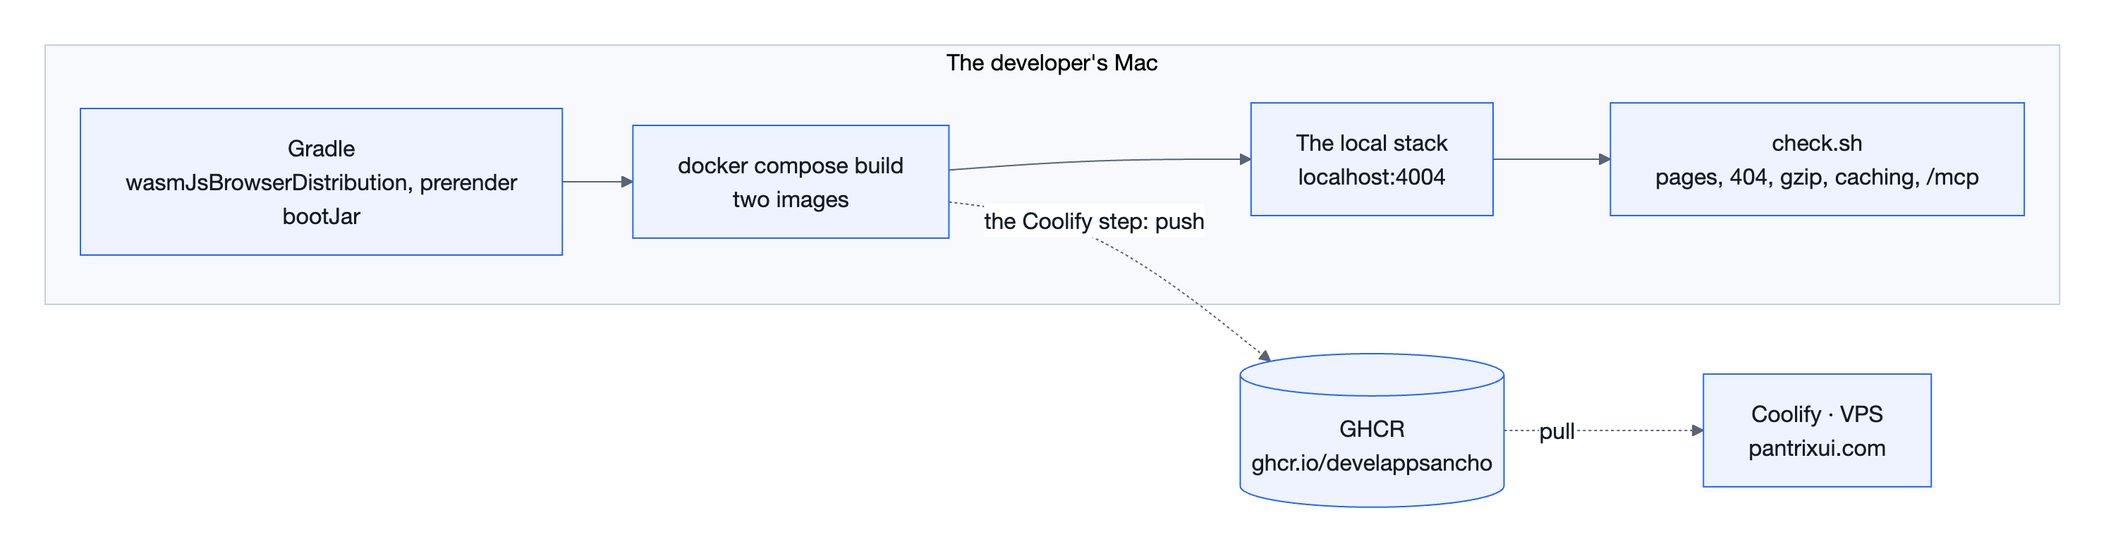
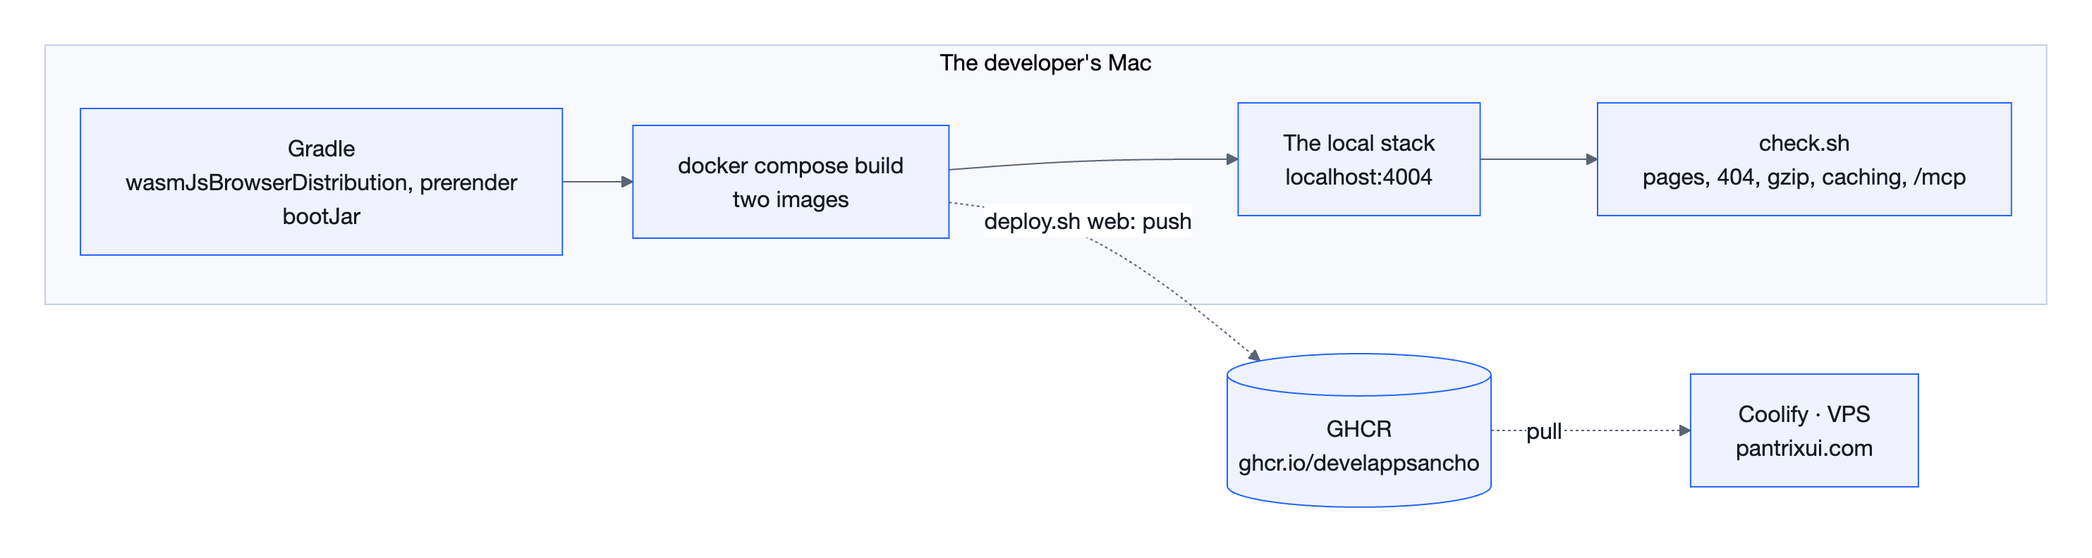
[DOCS][Add the deploy guide's section on deploying in Coolify and releasing the desktop app, Note what the live deploy showed in the architecture guide and Describe the host's deploy in the READMEs]

diff --git a/docs/deploy/DEPLOY_GUIDE.md b/docs/deploy/DEPLOY_GUIDE.md
@@ -24,6 +24,8 @@ Bir sürüm, yayının tarihidir: `YY.A.G` (`26.10.31`); verilmezse bugününki.
 *   **Docker Desktop**, açık. `docker compose` onunla gelir.
 *   **JDK 21** ve Gradle'ın kendisi (`./gradlew`).
 *   **GitHub Packages'ın anahtarı:** Pantrix UI'ın bir sürümü GitHub Packages'tan gelir ve GitHub, açık paketler için bile bir anahtar ister. `~/.gradle/gradle.properties`'te `GitHubPackagesUsername` ve `read:packages` yetkili bir token olarak `GitHubPackagesPassword`. Bir `-SNAPSHOT` sürümü yerel Maven deposundan gelir ve anahtar istemez.
+*   **Canlıya yayın için** (Bölüm 7): GitHub'ın komut satırı aracı `gh`, `write:packages` izniyle; Coolify'ın adresi, API anahtarı ve kaynağın UUID'si `~/.gradle/gradle.properties`'te.
+*   **Masaüstü sürümü için:** Xcode'un komut satırı araçları, anahtar zincirinde Developer ID sertifikası ve Apple'ın onayı için `pantrix-notary` adıyla kaydedilmiş bilgiler (Bölüm 7.1).
 
 ## 3. Lokalde Yayın
 
@@ -104,4 +106,103 @@ Yeni bir alan adı:
 
 ## 7. Coolify'da Yayın
 
-Bu bölüm bir sonraki adımda yazılacak: imajların GHCR'ye gönderilmesi, Coolify'da kaynağın kurulması, deneme adresinde denetim, alan adının taşınması ve eski sitenin kaldırılması.
+Site canlıda Coolify'ın yönettiği VPS'te, `https://pantrixui.com`'da çalışır. İmajlar bu makinede derlenir ve GHCR'ye gönderilir; Coolify depodaki `deploy/compose.yaml`'ı okur, imajları çeker ve yığını kaldırır. VPS'te hiçbir şey derlenmez. Masaüstü uygulaması aynı sürümle, sitenin GitHub'daki sürüm sayfasında yayımlanır.
+
+### 7.1 Bir Kerelik Kurulum
+
+1.  **GHCR'ye gönderme izni.** `gh` hangi hesapla açıksa imajlar o hesabın adına gider: `develappsancho`. İzin bir kez eklenir:
+
+    ```bash
+    gh auth refresh -h github.com -s write:packages
+    ```
+
+2.  **Coolify'ın API anahtarı.** Coolify'da **Keys & Tokens** → **API Tokens**'tan `read` ve `deploy` yetkili bir anahtar yaratılır. Panelin adresi ve anahtar `~/.gradle/gradle.properties`'e yazılır; depoya girmez:
+
+    ```properties
+    CoolifyUrl=https://coolify.ornek-alan-adi.com
+    CoolifyToken=…
+    ```
+
+    Bu anahtar ortam değişkenlerinin değerlerini okuyamaz: API onları boş gösterir. Değerler panelde görülür.
+3.  **İlk gönderim.** Coolify'daki kaynak, imajlar GHCR'de olmadan yayımlayamaz. İlk gönderim Coolify'a dokunmadan yapılır:
+
+    ```bash
+    deploy/deploy.sh web --no-coolify
+    ```
+
+    İki paket, `pantrix-ui-site-web` ve `pantrix-ui-site-server`, gizli olarak açılır. İmajların dizinindeki `org.opencontainers.image.source` bilgisiyle depoya kendiliğinden bağlanırlar. Her biri için GitHub'da paketin sayfası → **Package settings** → **Danger Zone** → **Change visibility** → **Public**. Coolify onları anahtarsız çeker.
+4.  **Coolify'da kaynak.** **Projects**'te projenin ortamı → **+ New** → **Public Repository**:
+
+    | Alan | Değer |
+    | :--- | :--- |
+    | Repository URL | `https://github.com/develappsancho/pantrix-ui-site` |
+    | Branch | `main` |
+    | Build Pack | Docker Compose |
+    | Base Directory | `/` |
+    | Docker Compose Location | `/deploy/compose.yaml` |
+    | `web`'in alan adları | `https://pantrixui.com,https://www.pantrixui.com` |
+    | `server`'ın alan adı | Boş: yalnızca nginx'in arkasındadır |
+    | Ortam değişkeni | `SITE_URL=https://pantrixui.com` |
+
+    **Save** ile kaydedilir; ilk yayını betik başlatır.
+5.  **Kaynağın UUID'si.** Panelde kaynağın adresinin son parçasıdır: `…/application/<uuid>`. Kaynağın adındaki kimlik UUID değildir: ad `pantrix-ui-site:main-cntrex…` iken UUID `sfyuo3…`'tür. UUID de `~/.gradle/gradle.properties`'e yazılır:
+
+    ```properties
+    CoolifySiteUuid=sfyuo3lhlbdznx7whlflkz3f
+    ```
+
+6.  **DNS.** `pantrixui.com` ve `www.pantrixui.com` VPS'in adresine gider. Sertifikaları Traefik, Let's Encrypt'ten ilk yayında alır.
+7.  **Apple'ın onayı.** Developer ID sertifikası anahtar zincirinde olmalıdır. Onay için gereken Apple bilgileri bir kez anahtar zincirine, `pantrix-notary` adıyla kaydedilir ve betik onları o addan okur:
+
+    ```bash
+    xcrun notarytool store-credentials pantrix-notary
+    ```
+
+### 7.2 Her Yayın
+
+Bir yayın, GitHub'daki bir commit'ten yapılır. Ağaçta commit'lenmemiş bir değişiklik varsa ya da yerel `main` GitHub'daki `main` değilse betik başlamaz.
+
+| Ne yayımlanıyor | Adımlar |
+| :--- | :--- |
+| Yalnızca site | Commit ve push, sonra `deploy/deploy.sh web` |
+| Site ve masaüstü uygulaması | `deploy/deploy.sh prepare`, iki değişiklik günlüğüne bakmak, commit ve push, sonra `deploy/deploy.sh release` |
+| Yalnızca masaüstü uygulaması | Değişiklik günlüğünde sürümün bölümü, commit ve push, sonra `deploy/deploy.sh desktop` |
+
+`web` şunları yapar:
+
+1.  Siteyi ve sunucuyu Gradle'la derler.
+2.  İki imajı `linux/amd64` ve `linux/arm64` için yapar, üç etiketle GHCR'ye gönderir: sürüm (`26.10.31`), commit (`08ec2a5`) ve `latest`. VPS kendi mimarisininkini çeker.
+3.  Coolify'a yayını POST ile sorar, her 10 saniyede durumunu okur ve bitmesini bekler (yaklaşık 30 saniye).
+4.  Canlı adreste `check.sh`'i çalıştırır. `www` yalnızca kalıcı alan adında denenir.
+
+`desktop` şunları yapar:
+
+1.  Uygulamayı sürümüyle derler (`-Psite.version=26.10.31`).
+2.  DMG'yi Developer ID ile imzalar, Apple'a onaya gönderir ve onayı içine ekler. Onay birkaç dakika sürer.
+3.  GitHub'da `v<sürüm>` sürümünü açar ve `PantrixUI-macOS.dmg`'yi ekler. Notlar, değişiklik günlüğünün o bölümüdür; her paragrafı tek satıra birleştirilir, çünkü GitHub bir sürümün satırlarını kırıldıkları yerde kırar. Sonlarında DMG'nin SHA-256'sı durur.
+
+Dosyanın adı her sürümde aynıdır, bu yüzden `releases/latest/download/PantrixUI-macOS.dmg` hep son sürümü verir. İndirme sayfası sürümü, günü, boyutu ve SHA-256'yı tarayıcıdan GitHub'ın API'sinden okur; gün, sürümün adındaki gündür.
+
+### 7.3 Bir Sürüme Dönmek
+
+Compose dosyası imajları `${SITE_TAG:-latest}` ile çeker. Coolify'da kaynağın ortam değişkenlerine `SITE_TAG=26.10.31` (ya da bir commit) eklenip yeniden yayımlanınca o sürüm çalışır. Değişken silinince yığın yine `latest`'e döner.
+
+### 7.4 Eski Site
+
+Önceki demo, `pantrix-u-i--demo`, Coolify'da durdurulmuş olarak ve aynı alan adlarıyla duruyor. Yeniden başlatılırsa iki kaynak aynı adı taşır ve Traefik'in yönlendirmesi karışır; alan adlarını ondan silmek ya da kaynağı silmek bunu önler.
+
+Eski siteyi açmış bir tarayıcı, ilk açılışta yeni sitenin yalnızca JavaScript'siz okuyucular için yazılmış metnini gösterebilir: eski sitenin önbelleği uygulamayı başlatmaz. Sert bir yenileme (Cmd + Shift + R) ya da geliştirici araçlarında **Application** → **Clear site data** çözer.
+
+### 7.5 Sorun Giderme
+
+| Belirti | Neden ve çözüm |
+| :--- | :--- |
+| `gh may not write packages` | 7.1'deki izin eksik: `gh auth refresh -h github.com -s write:packages` |
+| `main on GitHub is not this commit` | Son commit push edilmemiş |
+| Coolify'ın `401` ya da `403` yanıtı | Anahtar yanlış ya da `deploy` yetkisi yok |
+| Coolify'ın `404` yanıtı | `CoolifySiteUuid` kaynağın adındaki kimlik; adresin son parçası olmalı |
+| Coolify'ın `405` yanıtı | Coolify 4.5'ten beri yayın POST ile istenir; betiğin eski bir kopyası GET gönderiyor |
+| Coolify imajı çekemiyor | Paket hâlâ gizli (7.1, adım 3) |
+| `www`'nin sertifikası yok | `www.pantrixui.com`, `web`'in alan adlarında değil |
+| İndirme sayfası sürümü göstermiyor | Henüz sürüm yok, GitHub'ın API'si o adres için saatlik sınırını (60 istek) doldurmuş, ya da bir CSP `https://api.github.com`'a izin vermiyor |
+| macOS uygulamayı açmıyor | DMG onaydan geçmemiş: `--dry-run` onaya göndermez. `spctl -a -vv -t open --context context:primary-signature PantrixUI-macOS.dmg` "Notarized Developer ID" demeli |

diff --git a/docs/deploy/DEPLOY_GUIDE.en.md b/docs/deploy/DEPLOY_GUIDE.en.md
@@ -24,6 +24,8 @@ A version is the release's date: `YY.M.D` (`26.10.31`), today's when none is giv
 *   **Docker Desktop**, running. `docker compose` comes with it.
 *   **JDK 21**, and Gradle itself (`./gradlew`).
 *   **The key to GitHub Packages:** a release of Pantrix UI comes from GitHub Packages, and GitHub asks for a key even for public packages. In `~/.gradle/gradle.properties`, `GitHubPackagesUsername`, and a token with `read:packages` as `GitHubPackagesPassword`. A `-SNAPSHOT` comes from the local Maven repository, and needs no key.
+*   **For the host** (section 7): GitHub's command line tool, `gh`, with `write:packages`; Coolify's address, its API token and the resource's UUID in `~/.gradle/gradle.properties`.
+*   **For the desktop app's release:** Xcode's command line tools, the Developer ID certificate in the keychain, and the details Apple's notarization needs, stored as `pantrix-notary` (section 7.1).
 
 ## 3. On This Machine
 
@@ -104,4 +106,103 @@ A new domain:
 
 ## 7. Deploying in Coolify
 
-This section is written in the next step: pushing the images to GHCR, setting up the resource in Coolify, checking it at a test address, moving the domain, and taking the old site down.
+On the host, the site runs on a VPS that Coolify manages, at `https://pantrixui.com`. The images are built on this machine and pushed to GHCR; Coolify reads `deploy/compose.yaml` from the repository, pulls the images and starts the stack. Nothing is compiled on the VPS. The desktop app is released with the same version, on the site's release page on GitHub.
+
+### 7.1 Setting It Up Once
+
+1.  **Leave to push to GHCR.** The images go out under the account `gh` is signed in with: `develappsancho`. The scope is added once:
+
+    ```bash
+    gh auth refresh -h github.com -s write:packages
+    ```
+
+2.  **Coolify's API token.** In Coolify, **Keys & Tokens** → **API Tokens** makes a token with `read` and `deploy`. The panel's address and the token go into `~/.gradle/gradle.properties`, never into the repository:
+
+    ```properties
+    CoolifyUrl=https://coolify.example.com
+    CoolifyToken=…
+    ```
+
+    This token cannot read the environment variables' values: the API shows them empty. The panel shows them.
+3.  **The first push.** The resource in Coolify cannot deploy before the images are in GHCR. The first push leaves Coolify alone:
+
+    ```bash
+    deploy/deploy.sh web --no-coolify
+    ```
+
+    The two packages, `pantrix-ui-site-web` and `pantrix-ui-site-server`, are made private. They link themselves to the repository by the `org.opencontainers.image.source` on the images' index. For each, on GitHub: the package's page → **Package settings** → **Danger Zone** → **Change visibility** → **Public**. Coolify pulls them with no key.
+4.  **The resource in Coolify.** In **Projects**, the project's environment → **+ New** → **Public Repository**:
+
+    | Field | Value |
+    | :--- | :--- |
+    | Repository URL | `https://github.com/develappsancho/pantrix-ui-site` |
+    | Branch | `main` |
+    | Build Pack | Docker Compose |
+    | Base Directory | `/` |
+    | Docker Compose Location | `/deploy/compose.yaml` |
+    | `web`'s domains | `https://pantrixui.com,https://www.pantrixui.com` |
+    | `server`'s domain | Empty: it stands behind nginx alone |
+    | Environment variable | `SITE_URL=https://pantrixui.com` |
+
+    **Save** keeps it; the script starts the first deploy.
+5.  **The resource's UUID.** In the panel it is the last part of the resource's address: `…/application/<uuid>`. The id in the resource's name is not its UUID: the name is `pantrix-ui-site:main-cntrex…` while the UUID is `sfyuo3…`. The UUID goes into `~/.gradle/gradle.properties` too:
+
+    ```properties
+    CoolifySiteUuid=sfyuo3lhlbdznx7whlflkz3f
+    ```
+
+6.  **DNS.** `pantrixui.com` and `www.pantrixui.com` lead to the VPS's address. Traefik gets their certificates from Let's Encrypt at the first deploy.
+7.  **Apple's notarization.** The Developer ID certificate must be in the keychain. The Apple account details notarization needs are stored in the keychain once, under the name `pantrix-notary`, and the script reads them by that name:
+
+    ```bash
+    xcrun notarytool store-credentials pantrix-notary
+    ```
+
+### 7.2 Each Release
+
+A release is made from a commit that is on GitHub. With a change left out of a commit, or a local `main` that is not GitHub's, the script does not start.
+
+| What is released | Steps |
+| :--- | :--- |
+| The site alone | Commit and push, then `deploy/deploy.sh web` |
+| The site and the desktop app | `deploy/deploy.sh prepare`, a look at both changelogs, commit and push, then `deploy/deploy.sh release` |
+| The desktop app alone | The version's section in the changelog, commit and push, then `deploy/deploy.sh desktop` |
+
+`web`:
+
+1.  Builds the site and the server with Gradle.
+2.  Makes both images for `linux/amd64` and `linux/arm64` and pushes them to GHCR with three tags: the version (`26.10.31`), the commit (`08ec2a5`) and `latest`. The VPS pulls its own architecture's.
+3.  Asks Coolify for a deploy by POST, reads its status every 10 seconds and waits for it to end (about 30 seconds).
+4.  Runs `check.sh` at the live address. `www` is tried on the lasting domain alone.
+
+`desktop`:
+
+1.  Builds the app with its version (`-Psite.version=26.10.31`).
+2.  Signs the DMG with the Developer ID, sends it to Apple for notarization and staples the ticket to it. Notarization takes some minutes.
+3.  Opens the release `v<version>` on GitHub and attaches `PantrixUI-macOS.dmg`. Its notes are the changelog's section, each paragraph joined into one line, as GitHub breaks a release's lines where they break. The DMG's SHA-256 ends them.
+
+The file has the same name in every release, so `releases/latest/download/PantrixUI-macOS.dmg` always gives the latest. The download page reads the version, the day, the size and the SHA-256 from GitHub's API in the browser; the day is the one the version names.
+
+### 7.3 Going Back to a Release
+
+The compose file pulls the images as `${SITE_TAG:-latest}`. With `SITE_TAG=26.10.31` (or a commit) added to the resource's environment variables in Coolify and a new deploy, that release runs. With the variable removed, the stack goes back to `latest`.
+
+### 7.4 The Old Site
+
+The previous demo, `pantrix-u-i--demo`, stays stopped in Coolify with the same domains. Started again, two resources would carry one name and Traefik's routing would be muddled; removing its domains, or the resource, prevents that.
+
+A browser that opened the old site can show, at first, only the new site's words written for readers with no JavaScript: the old site's cache keeps the app from starting. A hard reload (Cmd + Shift + R), or **Application** → **Clear site data** in the developer tools, mends it.
+
+### 7.5 Troubleshooting
+
+| What you see | Why, and what to do |
+| :--- | :--- |
+| `gh may not write packages` | The scope of 7.1 is missing: `gh auth refresh -h github.com -s write:packages` |
+| `main on GitHub is not this commit` | The last commit is not pushed |
+| Coolify answers `401` or `403` | The token is wrong, or has no `deploy` |
+| Coolify answers `404` | `CoolifySiteUuid` is the id in the resource's name; it must be the last part of its address |
+| Coolify answers `405` | Since Coolify 4.5 a deploy is asked for by POST; an old copy of the script sends GET |
+| Coolify cannot pull an image | The package is still private (7.1, step 3) |
+| `www` has no certificate | `www.pantrixui.com` is not among `web`'s domains |
+| The download page shows no version | No release yet, GitHub's API has had its hourly limit (60 requests) from that address, or a CSP does not allow `https://api.github.com` |
+| macOS does not open the app | The DMG is not notarized: `--dry-run` does not send it to Apple. `spctl -a -vv -t open --context context:primary-signature PantrixUI-macOS.dmg` must say "Notarized Developer ID" |

diff --git a/docs/deploy/ARCHITECTURE_GUIDE.en.md b/docs/deploy/ARCHITECTURE_GUIDE.en.md
@@ -200,8 +200,8 @@ Spring Boot can serve files too; but:
 | **Dockerfile** | An image's recipe: what goes on top of which base | `deploy/web/Dockerfile`, `deploy/server/Dockerfile` |
 | **Layer** | Each step of a Dockerfile is a layer; a layer that did not change is used again, not downloaded | nginx's and Java's bases are pulled once |
 | **Compose** | Describes containers that run together in one file, and gives them a network of their own | `deploy/compose.yaml` |
-| **Registry** | Where images are kept | GitHub's container registry, GHCR (`ghcr.io`), in the Coolify step |
-| **Tag** | An image's version name | The short hash of the commit it is built from: `fbc4fe2` |
+| **Registry** | Where images are kept | GitHub's container registry, GHCR (`ghcr.io`): `ghcr.io/develappsancho/pantrix-ui-site-web` and `-server`, public |
+| **Tag** | An image's version name | On this machine the short hash of the commit it is built from (`fbc4fe2`); in GHCR the version (`26.10.31`), the commit and `latest` |
 
 ### 4.2 The Two Images
 
@@ -261,7 +261,7 @@ flowchart LR
         d --> l["The local stack<br/>localhost:4004"]
         l --> c["check.sh<br/>pages, 404, gzip, caching, /mcp"]
     end
-    d -. "the Coolify step: push" .-> r[("GHCR<br/>ghcr.io/develappsancho")]
+    d -. "deploy.sh web: push" .-> r[("GHCR<br/>ghcr.io/develappsancho")]
     r -. "pull" .-> v["Coolify · VPS<br/>pantrixui.com"]
 ```
 
@@ -279,7 +279,7 @@ The images are built on this machine, not on the server:
 
 | | This machine | The host (Coolify) |
 | :--- | :--- | :--- |
-| Command | `deploy/deploy.sh local` | Written in the Coolify step |
+| Command | `deploy/deploy.sh local` | `deploy/deploy.sh web` |
 | Compose files | `compose.yaml` and `compose.local.yaml` | `compose.yaml` |
 | Images | Built on this machine | Pulled from GHCR |
 | Address | `http://localhost:4004` | `https://pantrixui.com` |
@@ -351,7 +351,7 @@ flowchart LR
 
 </details>
 
-The steps of the setup in Coolify are added to [DEPLOY_GUIDE.en.md](./DEPLOY_GUIDE.en.md) in the Coolify step.
+Coolify reads `deploy/compose.yaml` from the repository and pulls the images from GHCR; it compiles nothing. The steps of the setup and of each release are in section 7 of [DEPLOY_GUIDE.en.md](./DEPLOY_GUIDE.en.md).
 
 ## 8. Compression and Caching
 
@@ -408,7 +408,8 @@ On a first visit, a visitor downloads about 7 MB for the app instead of 23 MB; o
 | [`deploy/web/default.conf.template`](../../deploy/web/default.conf.template) | nginx's settings; `SITE_URL` and `SITE_HOST` are written in as the container starts |
 | [`deploy/web/05-site-address.envsh`](../../deploy/web/05-site-address.envsh), [`deploy/web/40-site-address.sh`](../../deploy/web/40-site-address.sh) | As the container starts: they find the stack's address and write it into the files |
 | [`deploy/server/Dockerfile`](../../deploy/server/Dockerfile) | The server image: Java 21 and `server.jar` |
-| [`deploy/deploy.sh`](../../deploy/deploy.sh) | One command: builds, makes the images, runs the stack, checks it |
+| [`deploy/deploy.sh`](../../deploy/deploy.sh) | Deploys, on this machine and on the host: builds, makes the images or pushes them to GHCR, has Coolify put them up, releases the desktop app, checks it |
+| [`deploy/desktop/macos-dmg.sh`](../../deploy/desktop/macos-dmg.sh), [`deploy/desktop/macos-entitlements.plist`](../../deploy/desktop/macos-entitlements.plist) | The macOS app's DMG: signed with the Developer ID, notarized by Apple, and the ticket stapled to it |
 | [`deploy/check.sh`](../../deploy/check.sh) | The checks: at any address, on this machine or on the host |
 
 ## 12. Glossary
@@ -434,4 +435,6 @@ On a first visit, a visitor downloads about 7 MB for the app instead of 23 MB; o
 *   **The address, seen on this machine (2026-10-30):** with `SITE_URL=http://localhost:4004`, the `web` container wrote the address into 294 files as it started (in about 1.3 seconds); no address of the host was left in the files, the `.gz` copies match their files, and the package names (`com.pantrixui.components`) and the guides' examples (`"pantrixui.com/tr"`) are as they were. `check.sh`'s 22 checks passed at this address: the canonical, `llms.txt`, `sitemap.xml`, the `www.localhost` redirect and an MCP request from the site's own page. In the browser, the page for coding assistants and the assistants page of the docs showed `http://localhost:4004/mcp`, and the 404 page `localhost:4004/…`. The same container left the files alone when it restarted; a container given no `SITE_URL` served the site at the address it is built for (`https://pantrixui.com`), and one given another address served it at that one.
 *   **The address, a known limit:** in the static text hidden for readers without JavaScript, an address written with no scheme (`pantrixui.com/mcp`) does not change; the app shows that address with the one it was opened at.
 *   **Read in the sources:** how nginx's `try_files`, `gzip_static`, `resolver` and `add_header` behave is in nginx's documentation.
-*   **Not tried yet:** Coolify, Traefik, HTTPS and the live domain; the `amd64` image (`arm64` ran on this machine). They are tried in the Coolify step.
+*   **Seen on the host (2026-10-31):** `deploy/deploy.sh web` pushed both images for both architectures to GHCR, Coolify finished the deploy in about 30 seconds, and `check.sh`'s 23 checks passed at `https://pantrixui.com`: with Traefik getting both names' certificates from Let's Encrypt, the lasting redirect of `www.pantrixui.com`, the images pulled on the VPS, and `/mcp`. The pages were drawn in headless Chrome. The desktop release `v26.10.31` was opened on GitHub; Gatekeeper accepted the DMG as "Notarized Developer ID", and the download page showed the version, the day, the size and the SHA-256 from GitHub's API.
+*   **Found on the host:** Coolify 4.5.3 starts a deploy only by POST (405 to a GET); the id in a resource's name is not its UUID; GitHub gives a release's moment in UTC, the day before for a release made after midnight. All three were mended in the script and on the page. A browser that had opened the old site showed only the static text until a hard reload.
+*   **Not tried yet:** going back to a release with `SITE_TAG`; the HSTS and content security headers (section 9); the Windows and Linux packages.

diff --git a/docs/deploy/ARCHITECTURE_GUIDE.md b/docs/deploy/ARCHITECTURE_GUIDE.md
@@ -200,8 +200,8 @@ Spring Boot da dosya sunabilir; ama:
 | **Dockerfile** | Bir imajın tarifi: hangi tabanın üstüne ne konacağı | `deploy/web/Dockerfile`, `deploy/server/Dockerfile` |
 | **Katman** | Dockerfile'ın her adımı bir katmandır; değişmeyen katman yeniden kullanılır, indirilmez | nginx'in ve Java'nın tabanı bir kez çekilir |
 | **Compose** | Birlikte çalışan konteynerleri tek bir dosyada tanımlar ve aralarına ortak bir ağ kurar | `deploy/compose.yaml` |
-| **Kayıt (registry)** | İmajların saklandığı depo | GitHub'ın imaj deposu GHCR (`ghcr.io`), Coolify adımında |
-| **Etiket (tag)** | Bir imajın sürüm adı | Derlendiği commit'in kısa karması: `fbc4fe2` |
+| **Kayıt (registry)** | İmajların saklandığı depo | GitHub'ın imaj deposu GHCR (`ghcr.io`): `ghcr.io/develappsancho/pantrix-ui-site-web` ve `-server`, herkese açık |
+| **Etiket (tag)** | Bir imajın sürüm adı | Lokalde derlendiği commit'in kısa karması (`fbc4fe2`); GHCR'de sürüm (`26.10.31`), commit ve `latest` |
 
 ### 4.2 İki İmaj
 
@@ -261,7 +261,7 @@ flowchart LR
         d --> l["Lokal yığın<br/>localhost:4004"]
         l --> c["check.sh<br/>sayfalar, 404, gzip, önbellek, /mcp"]
     end
-    d -. "Coolify adımı: push" .-> r[("GHCR<br/>ghcr.io/develappsancho")]
+    d -. "deploy.sh web: push" .-> r[("GHCR<br/>ghcr.io/develappsancho")]
     r -. "pull" .-> v["Coolify · VPS<br/>pantrixui.com"]
 ```
 
@@ -279,7 +279,7 @@ flowchart LR
 
 | | Lokal | Canlı (Coolify) |
 | :--- | :--- | :--- |
-| Komut | `deploy/deploy.sh local` | Coolify adımında yazılacak |
+| Komut | `deploy/deploy.sh local` | `deploy/deploy.sh web` |
 | Compose dosyaları | `compose.yaml` ve `compose.local.yaml` | `compose.yaml` |
 | İmajlar | Bu makinede derlenir | GHCR'den çekilir |
 | Adres | `http://localhost:4004` | `https://pantrixui.com` |
@@ -351,7 +351,7 @@ flowchart LR
 
 </details>
 
-Coolify'daki kurulumun adımları, Coolify adımında [DEPLOY_GUIDE.md](./DEPLOY_GUIDE.md)'ye eklenir.
+Coolify, depodaki `deploy/compose.yaml`'ı okur ve imajları GHCR'den çeker; hiçbir şey derlemez. Kurulumun ve her yayının adımları [DEPLOY_GUIDE.md](./DEPLOY_GUIDE.md)'nin 7. bölümündedir.
 
 ## 8. Sıkıştırma ve Önbellek
 
@@ -408,7 +408,8 @@ Bir ziyaretçi, ilk açılışta uygulama için 23 MB yerine yaklaşık 7 MB ind
 | [`deploy/web/default.conf.template`](../../deploy/web/default.conf.template) | nginx'in ayarları; `SITE_URL` ve `SITE_HOST`, konteyner açılırken yazılır |
 | [`deploy/web/05-site-address.envsh`](../../deploy/web/05-site-address.envsh), [`deploy/web/40-site-address.sh`](../../deploy/web/40-site-address.sh) | Konteyner açılırken: yığının adresini bulur ve dosyalara yazar |
 | [`deploy/server/Dockerfile`](../../deploy/server/Dockerfile) | Sunucu imajı: Java 21 ve `server.jar` |
-| [`deploy/deploy.sh`](../../deploy/deploy.sh) | Tek komut: derler, imajları yapar, yığını kaldırır, denetler |
+| [`deploy/deploy.sh`](../../deploy/deploy.sh) | Lokalde ve canlıda yayın: derler, imajları yapar ya da GHCR'ye gönderir, Coolify'a yayını başlatır, masaüstü sürümünü yapar, denetler |
+| [`deploy/desktop/macos-dmg.sh`](../../deploy/desktop/macos-dmg.sh), [`deploy/desktop/macos-entitlements.plist`](../../deploy/desktop/macos-entitlements.plist) | macOS uygulamasının DMG'si: Developer ID ile imza, Apple'ın onayı ve onayın DMG'ye eklenmesi |
 | [`deploy/check.sh`](../../deploy/check.sh) | Denetimler: herhangi bir adreste, lokalde ya da canlıda |
 
 ## 12. Sözlük
@@ -434,4 +435,6 @@ Bir ziyaretçi, ilk açılışta uygulama için 23 MB yerine yaklaşık 7 MB ind
 *   **Adres, lokalde görülen (2026-10-30):** `SITE_URL=http://localhost:4004` ile `web` konteyneri açılırken 294 dosyadaki adresi yazdı (yaklaşık 1,3 saniye); dosyalarda canlı adres kalmadı, `.gz`'ler dosyalarıyla aynı, paket adları (`com.pantrixui.components`) ve rehberlerin örnekleri (`"pantrixui.com/tr"`) olduğu gibi. `check.sh`'in 22 denetimi bu adresle geçti: canonical, `llms.txt`, `sitemap.xml`, `www.localhost` yönlendirmesi ve sitenin kendi sayfasından gelen MCP isteği. Tarayıcıda yapay zekâ sayfası ve belgelerdeki asistan sayfası `http://localhost:4004/mcp`, 404 sayfası `localhost:4004/…` gösterdi. Aynı konteyner yeniden başlarken dosyalara dokunmadı; `SITE_URL` verilmeyen bir konteyner derlendiği adresle (`https://pantrixui.com`), başka bir adres verilen konteyner o adresle sunuldu.
 *   **Adres, bilinen sınır:** JavaScript'siz okuyucular için gizlenen statik metinde şemasız yazılan adres (`pantrixui.com/mcp`) değişmez; uygulama bu adresi açıldığı adresle gösterir.
 *   **Kaynakta okunan:** nginx'in `try_files`, `gzip_static`, `resolver` ve `add_header` davranışları nginx'in belgelerindedir.
-*   **Henüz denenmeyen:** Coolify, Traefik, HTTPS ve canlı alan adı; `amd64` imajı (lokalde `arm64` çalıştı). Bunlar Coolify adımında denenir.
+*   **Canlıda görülen (2026-10-31):** `deploy/deploy.sh web` iki imajı iki mimari için GHCR'ye gönderdi, Coolify yayını yaklaşık 30 saniyede bitirdi ve `check.sh`'in 23 denetimi `https://pantrixui.com`'da geçti: Traefik'in iki adın sertifikasını Let's Encrypt'ten alması, `www.pantrixui.com`'un kalıcı yönlendirmesi, VPS'te çekilen imajlar ve `/mcp` dahil. Sayfalar başsız Chrome'da çizildi. Masaüstü sürümü `v26.10.31` GitHub'da açıldı; DMG'yi Gatekeeper "Notarized Developer ID" diye kabul etti ve indirme sayfası sürümü, günü, boyutu ve SHA-256'yı GitHub'ın API'sinden gösterdi.
+*   **Canlıda bulunan:** Coolify 4.5.3 yayını yalnızca POST ile başlatır (GET'e 405); kaynağın adındaki kimlik UUID'si değildir; GitHub bir sürümün anını UTC ile verir, gece yarısından sonra açılan bir sürüm için bir önceki günü. Üçü de betikte ve sayfada düzeltildi. Eski siteyi açmış bir tarayıcı, sert bir yenilemeye kadar yalnızca statik metni gösterdi.
+*   **Henüz denenmeyen:** `SITE_TAG` ile bir sürüme dönmek; HSTS ve içerik güvenliği başlıkları (bölüm 9); Windows ve Linux paketleri.

diff --git a/README.tr.md b/README.tr.md
@@ -27,7 +27,7 @@ Pantrix UI, `gradle/libs.versions.toml`'daki sürümün seçtiği iki depodan bi
 Site tek bir Docker Compose yığınında iki konteyner olarak çalışır: nginx'in ardında dosyaları ve yanında, yalnızca nginx'in `/mcp`'de ulaştığı sunucu. İki imaj da bu makinede, Gradle'ın yaptıklarından yapılır; sunucuda hiçbir şey derlenmez.
 
 *   Bu makinede: `deploy/deploy.sh local` siteyi ve sunucuyu derler, iki imajı yapar, yığını `http://localhost:4004`'te çalıştırır ve `deploy/check.sh` ile denetler; `deploy/deploy.sh stop` onu durdurur. Docker'ı ve GitHub Packages için yukarıdaki token'ı ister.
-*   Sunucuda, `pantrixui.com`: Coolify, GitHub'ın imaj deposundaki aynı imajlardan (sırada).
+*   Sunucuda, `pantrixui.com`: `deploy/deploy.sh web` aynı imajları GitHub'ın imaj deposuna gönderir ve Coolify'a yayımlatır; `deploy/deploy.sh desktop` macOS uygulamasını imzalı ve Apple'ın onayından geçmiş olarak bu deponun sürümlerinde yayımlar. Adımlar [docs/deploy/DEPLOY_GUIDE.md](docs/deploy/DEPLOY_GUIDE.md)'dedir.
 
 Sitenin adresi tek bir yerde yazılıdır: `gradle.properties`'teki `site.url`; derleme onu statik sayfalara, içeriğe (`{{site}}` olarak), paylaşım görsellerine ve uygulamalara verir. Çalışan bir yığın ise `SITE_URL`'de sunulur: web konteyneri açılırken onu sitenin dosyalarına yazar, web uygulaması da açıldığı adresi okur.
 

diff --git a/README.md b/README.md
@@ -44,7 +44,9 @@ the host.
 - On this machine: `deploy/deploy.sh local` builds the site and the server, makes the two images, runs the stack at
   `http://localhost:4004` and checks it with `deploy/check.sh`; `deploy/deploy.sh stop` stops it. It needs Docker, and
   the token above for GitHub Packages.
-- On the host, `pantrixui.com`: Coolify, from the same images on GitHub's container registry (to come).
+- On the host, `pantrixui.com`: `deploy/deploy.sh web` pushes the same images to GitHub's container registry and has
+  Coolify put them up, and `deploy/deploy.sh desktop` releases the macOS app, signed and notarized, on this
+  repository's releases. [docs/deploy/DEPLOY_GUIDE.en.md](docs/deploy/DEPLOY_GUIDE.en.md) has the steps.
 
 The site's address is written in one place: `site.url` in `gradle.properties`, which the build gives the static pages,
 the content (as `{{site}}`), the share images and the apps. A running stack is served at `SITE_URL` instead, which the
